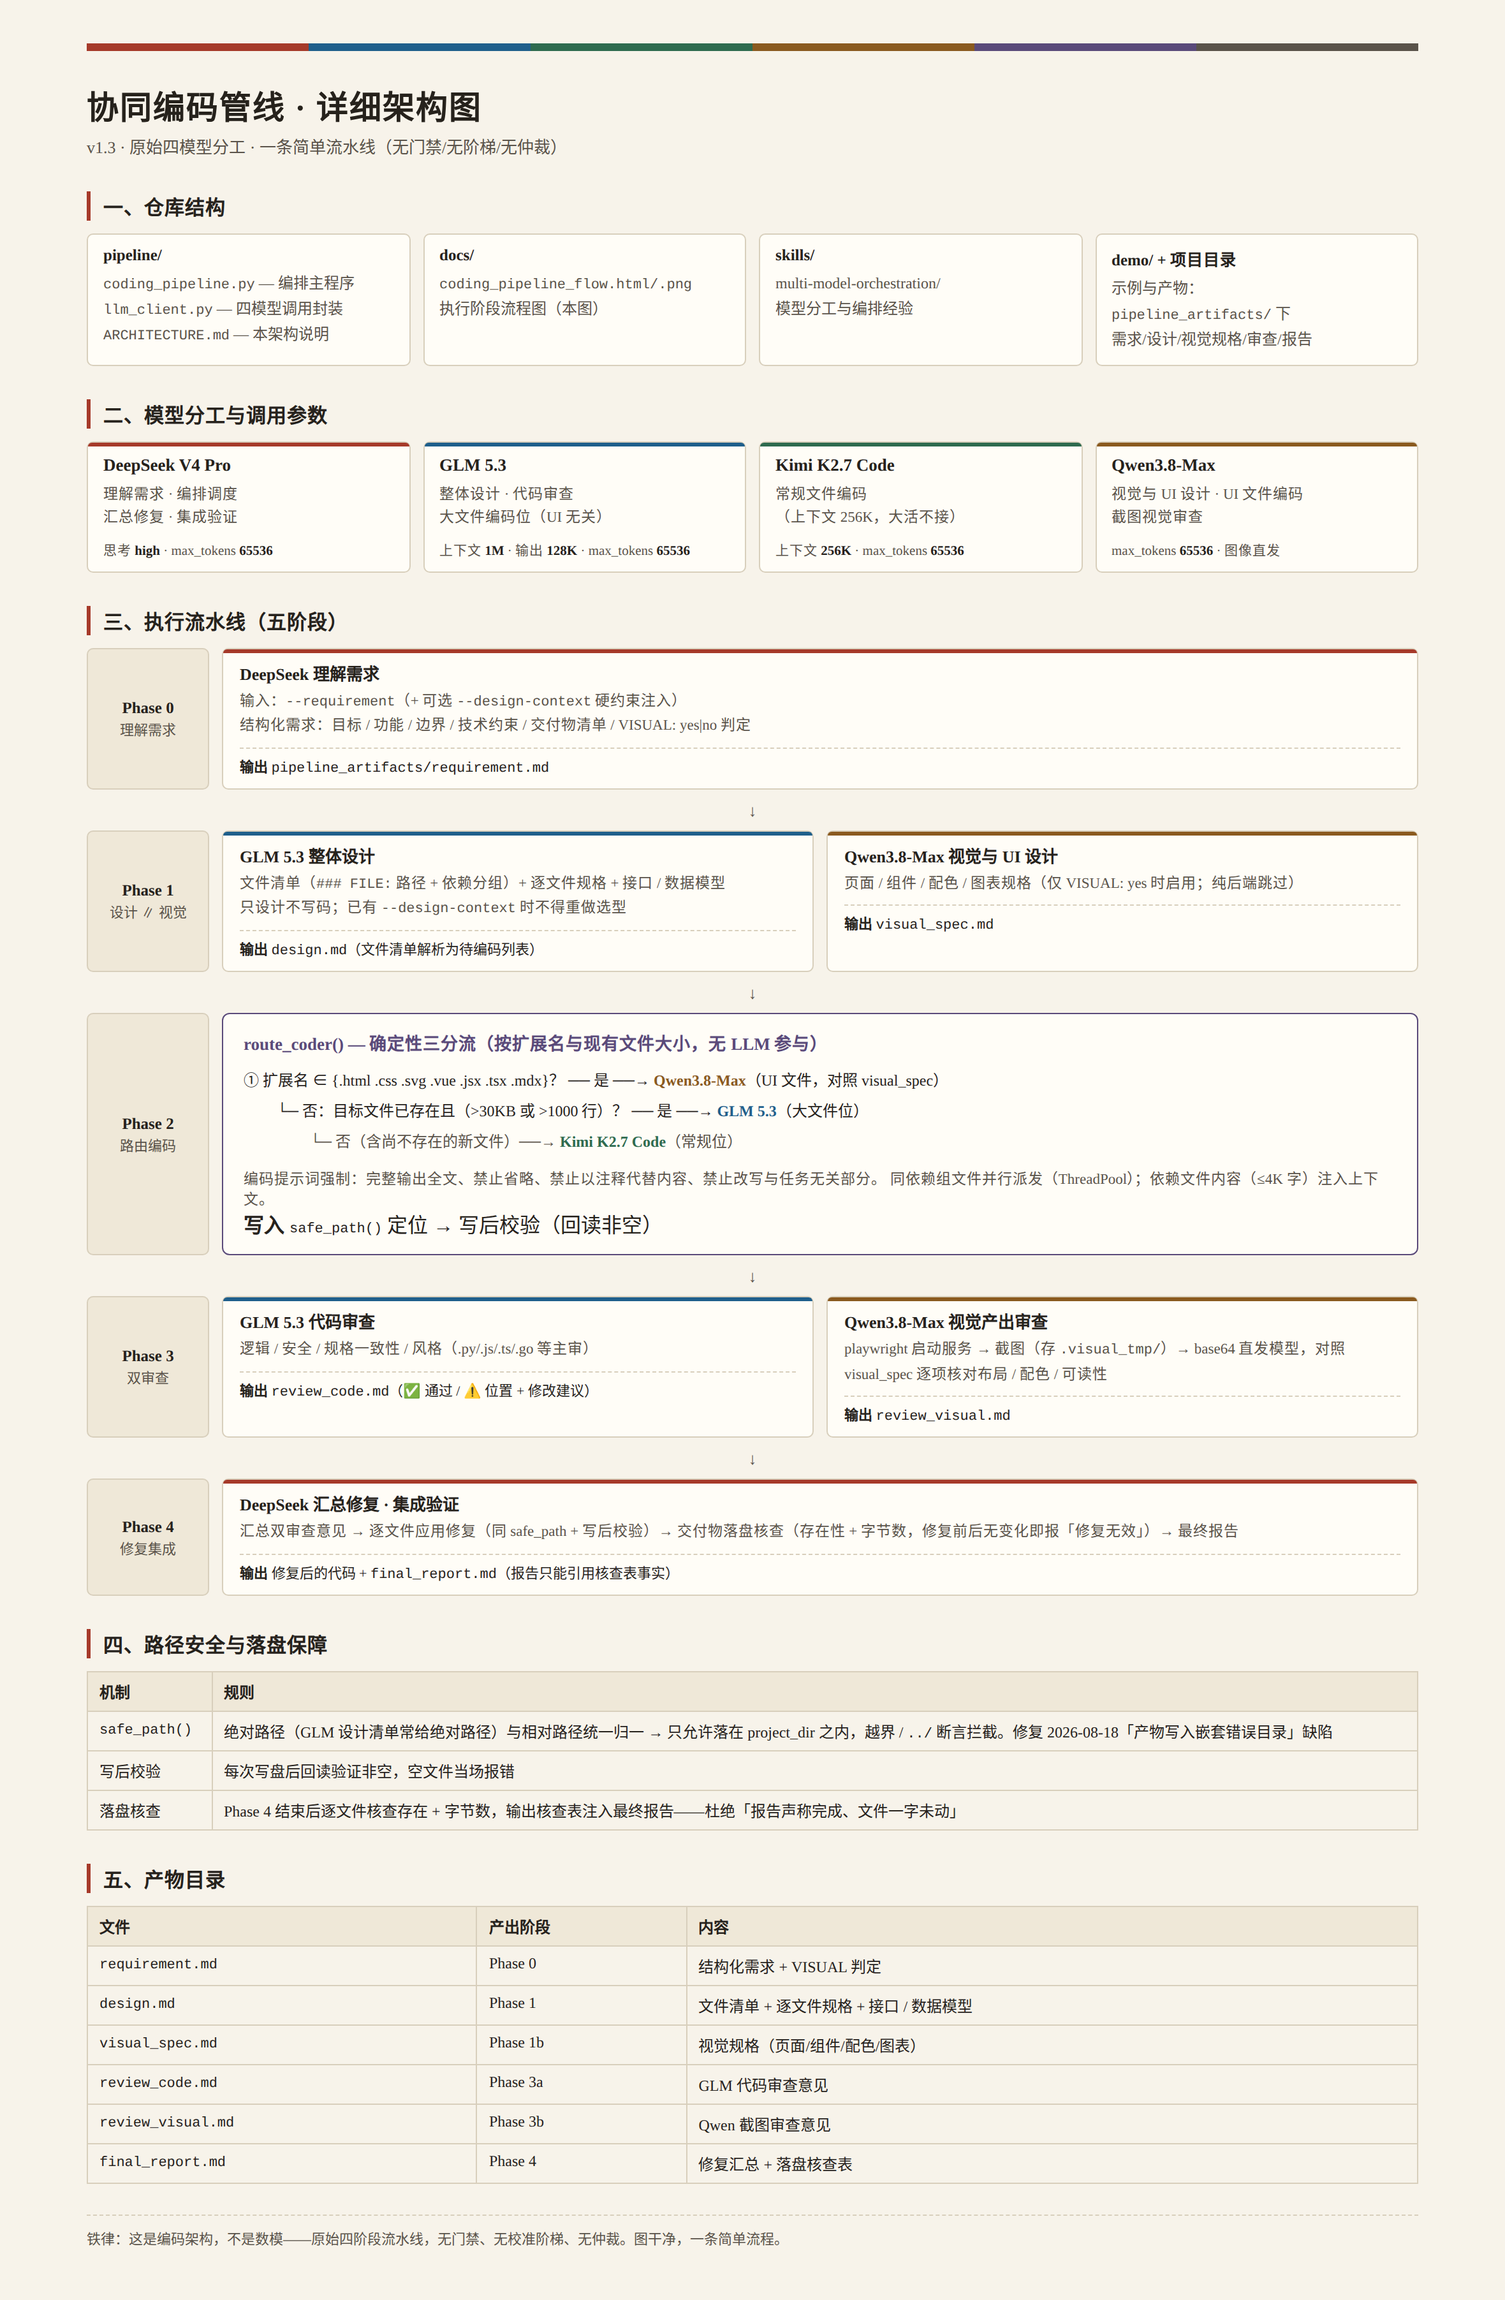
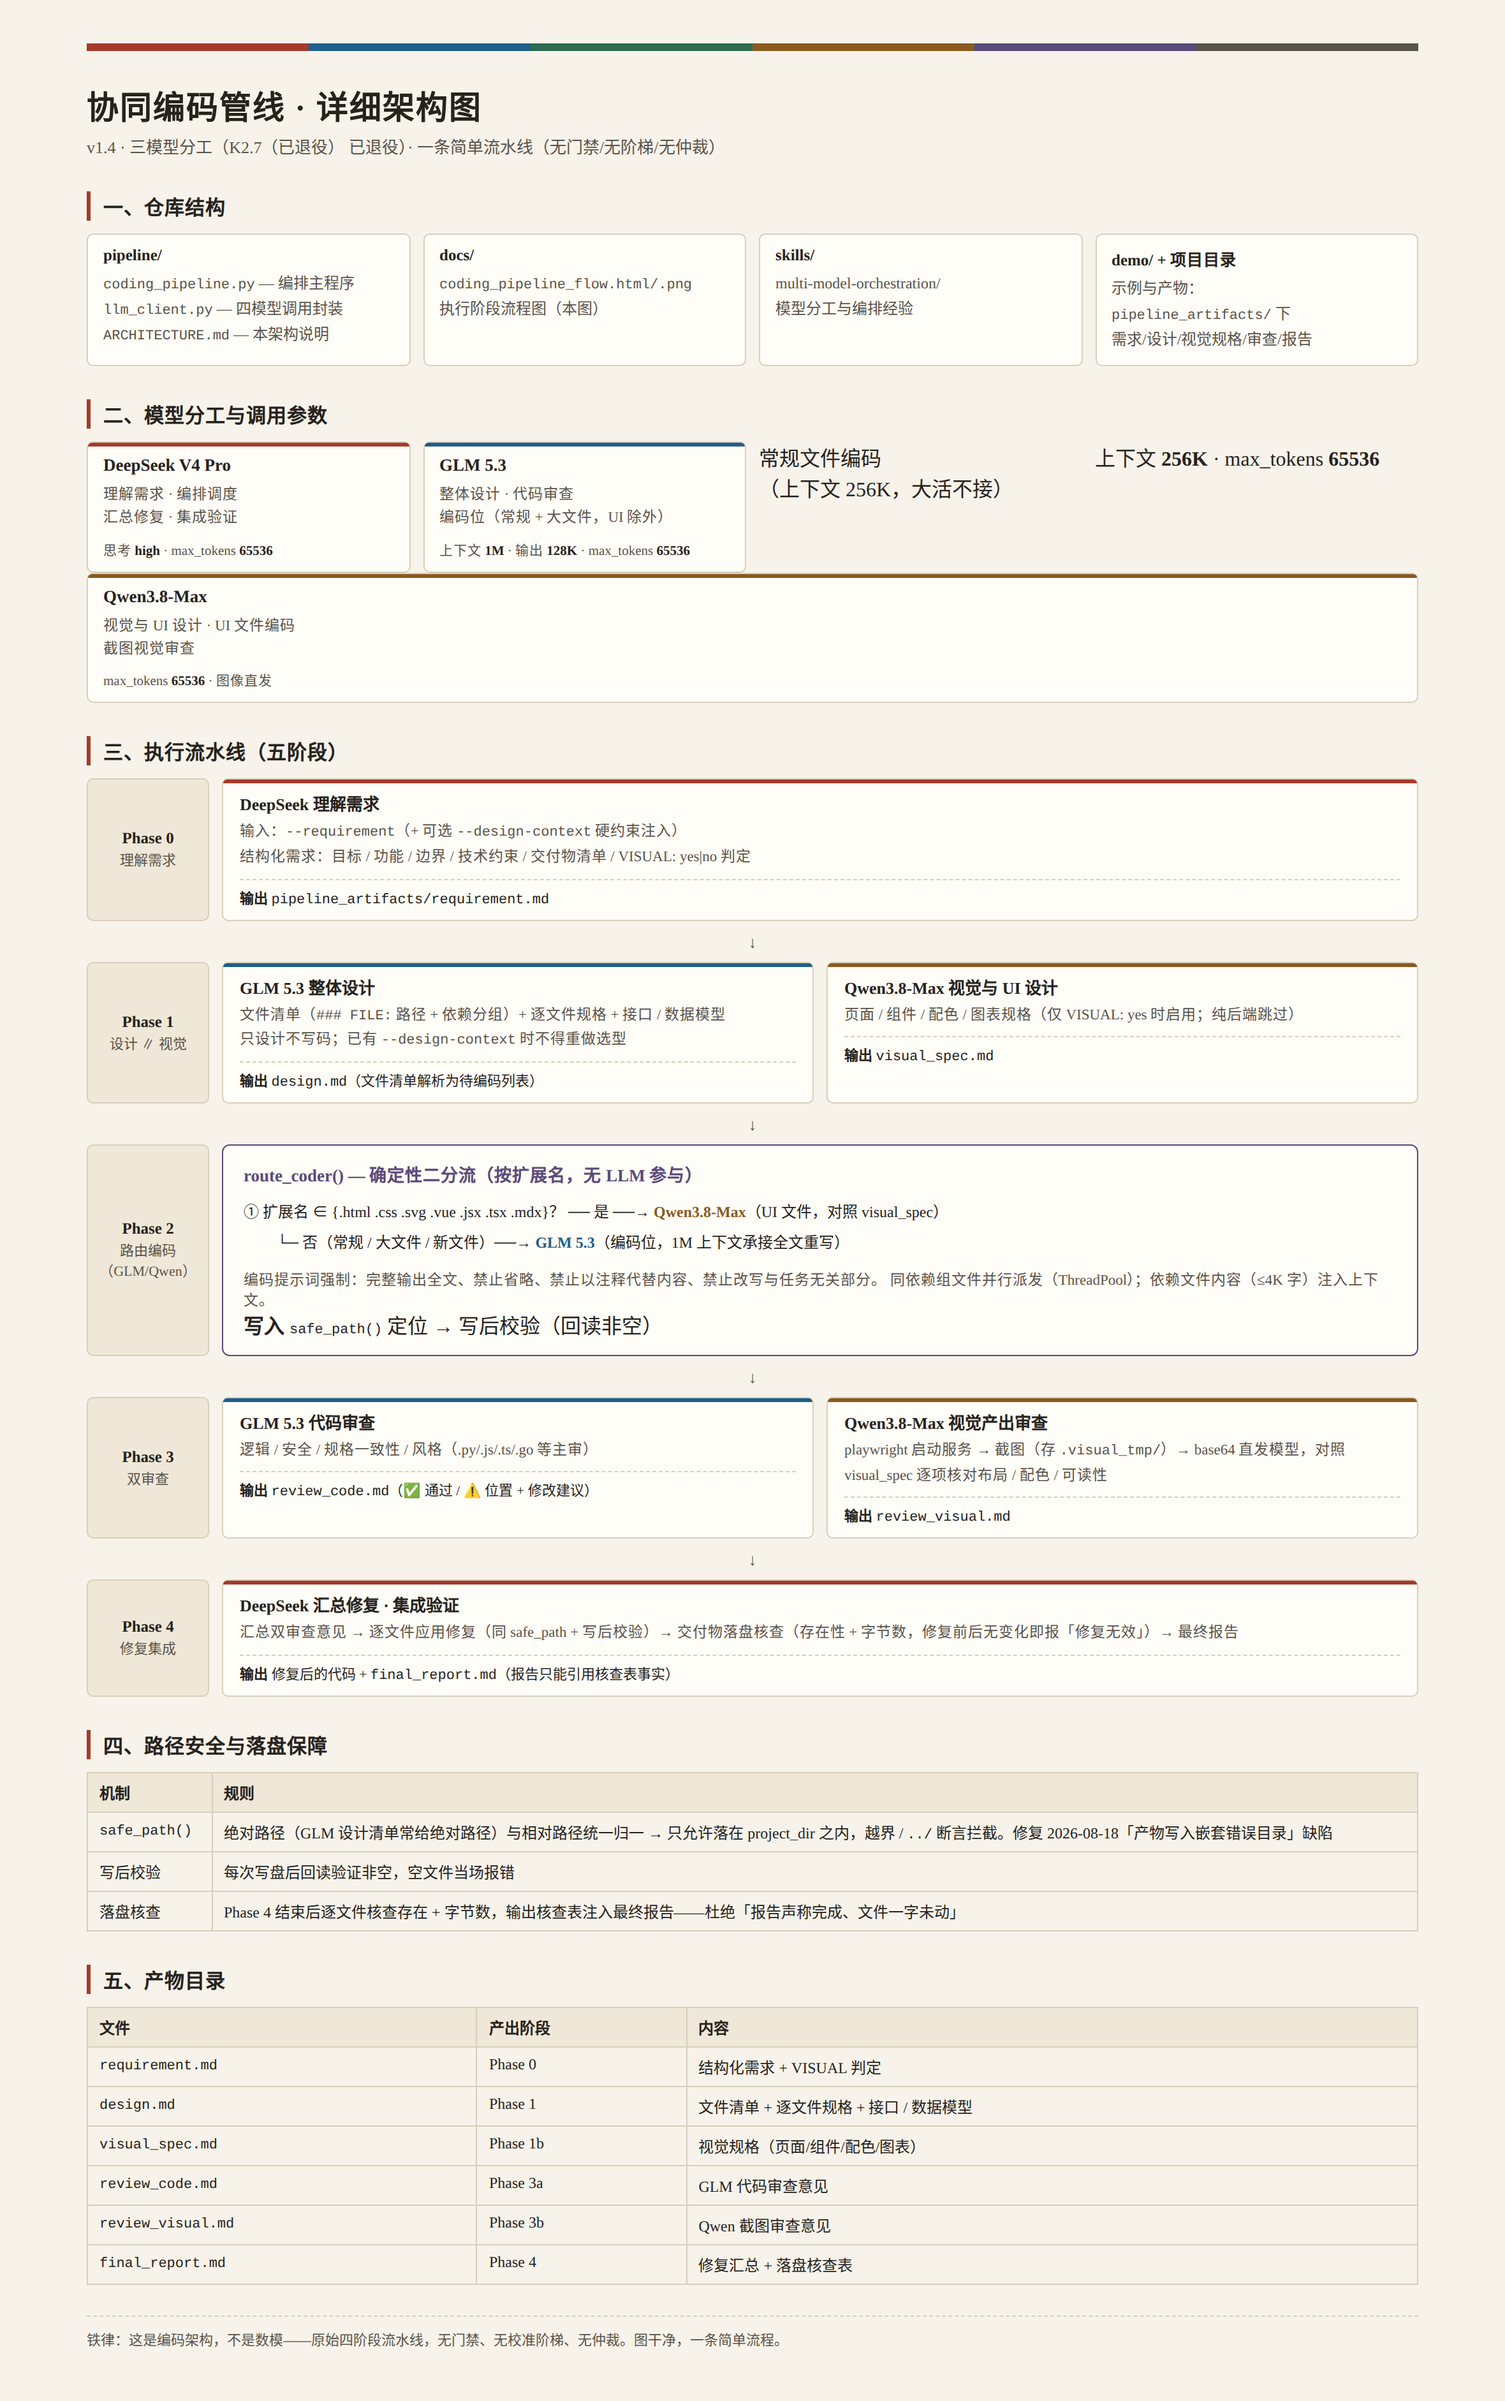
v1.4: K2.7 退役——编码位全归 GLM 5.3（UI 文件仍 Qwen），路由简化为二分流

diff --git a/docs/coding_pipeline_flow.html b/docs/coding_pipeline_flow.html
@@ -3,7 +3,7 @@
 <head>
 <meta charset="UTF-8">
 <meta name="viewport" content="width=device-width, initial-scale=1.0">
-<title>协同编码管线 · 详细架构图（v1.3）</title>
+<title>协同编码管线 · 详细架构图（v1.4）</title>
 <style>
 :root {
   --paper: #f7f3ea; --paper2: #efe8d8; --ink: #26221c; --ink-soft: #5a534a;
@@ -85,7 +85,7 @@ td .mono, .mono { font-size: 11px; }
 <div class="topbar"><span></span><span></span><span></span><span></span><span></span><span></span></div>
 
 <h1>协同编码管线 · 详细架构图</h1>
-<div class="sub">v1.3 · 原始四模型分工 · 一条简单流水线（无门禁/无阶梯/无仲裁）</div>
+<div class="sub">v1.4 · 三模型分工（K2.7（已退役） 已退役）· 一条简单流水线（无门禁/无阶梯/无仲裁）</div>
 
 <h2>一、仓库结构</h2>
 <div class="repo">
@@ -114,11 +114,9 @@ td .mono, .mono { font-size: 11px; }
   </div>
   <div class="model glm">
     <div class="mn">GLM 5.3</div>
-    <div class="mr">整体设计 · 代码审查<br>大文件编码位（UI 无关）</div>
+    <div class="mr">整体设计 · 代码审查<br>编码位（常规 + 大文件，UI 除外）</div>
     <div class="mp">上下文 <b>1M</b> · 输出 <b>128K</b> · max_tokens <b>65536</b></div>
   </div>
-  <div class="model kimi">
-    <div class="mn">Kimi K2.7 Code</div>
     <div class="mr">常规文件编码<br>（上下文 256K，大活不接）</div>
     <div class="mp">上下文 <b>256K</b> · max_tokens <b>65536</b></div>
   </div>
@@ -162,13 +160,12 @@ td .mono, .mono { font-size: 11px; }
 <div class="arrow">↓</div>
 
 <div class="phase">
-  <div class="pstage"><b>Phase 2</b>路由编码</div>
+  <div class="pstage"><b>Phase 2</b>路由编码（GLM/Qwen）</div>
   <div class="routewrap">
-    <div class="rt">route_coder() — 确定性三分流（按扩展名与现有文件大小，无 LLM 参与）</div>
+    <div class="rt">route_coder() — 确定性二分流（按扩展名，无 LLM 参与）</div>
     <div class="tree">
       <div>① 扩展名 ∈ {.html .css .svg .vue .jsx .tsx .mdx}？ ── 是 ──→ <b class="qwen">Qwen3.8-Max</b>（UI 文件，对照 visual_spec）</div>
-      <div class="lv">└─ 否：目标文件已存在且（&gt;30KB 或 &gt;1000 行）？ ── 是 ──→ <b class="glm">GLM 5.3</b>（大文件位）</div>
-      <div class="lv2">└─ 否（含尚不存在的新文件）──→ <b class="kimi">Kimi K2.7 Code</b>（常规位）</div>
+      <div class="lv">└─ 否（常规 / 大文件 / 新文件）──→ <b class="glm">GLM 5.3</b>（编码位，1M 上下文承接全文重写）</div>
     </div>
     <div class="nd" style="margin-top:8px;font-size:11.5px;color:var(--ink-soft)">
       编码提示词强制：完整输出全文、禁止省略、禁止以注释代替内容、禁止改写与任务无关部分。

diff --git a/pipeline/coding_pipeline.py b/pipeline/coding_pipeline.py
@@ -4,7 +4,7 @@
 
     DeepSeek V4 Pro  理解需求 · 编排 · 汇总修复 · 集成验证
     GLM 5.3          设计整体情况（架构分析）+ 代码审查
-    Kimi K2.7 Code   编写具体代码（逐文件）
+    GLM 5.3          编写具体代码（逐文件，UI 文件由 Qwen 编写）
     Qwen3.8-Max      视觉与 UI 设计 + 视觉产出审查
 
 用法：
@@ -13,7 +13,7 @@
 
 产物：
     <project>/pipeline_artifacts/  requirements / design / visual_spec / review_code / review_visual / final_report
-    <project>/<GLM 设计的文件路径>   Kimi 编写的代码（Phase 4 修复后为终版）
+    <project>/<GLM 设计的文件路径>   GLM 编写的代码（Phase 4 修复后为终版）
 """
 import argparse, json, os, re, sys, time, base64
 from concurrent.futures import ThreadPoolExecutor, as_completed
@@ -172,30 +172,16 @@ def phase1b_visual(project_dir, requirements, design, files):
 
 
 # ---------------------------------------------------------------- Phase 2
-# v1.3 文件路由（2026-08-19，博士拍板）：常规 → Kimi；UI 相关 → Qwen；大文件非UI → GLM
-LARGE_SIZE_BYTES = 30 * 1024     # 大文件阈值：>30KB
-LARGE_LINES = 1000               # 或 >1000 行
+# v1.4 文件路由（2026-08-19，博士拍板）：UI 文件 → Qwen；其余全部 → GLM 5.3（K2.7 退役）
 UI_EXTS = ('.html', '.htm', '.css', '.svg', '.vue', '.jsx', '.tsx', '.mdx')
 
 
 def route_coder(project_dir, f):
     # 确定性路由：返回 (provider, 显示名)
     path = f['path'].lower()
-    is_ui = path.endswith(UI_EXTS)
-    full = safe_path(project_dir, f['path'])
-    is_large = False
-    if os.path.exists(full):
-        try:
-            size = os.path.getsize(full)
-            lines = read_text(full).count('\n')
-            is_large = size > LARGE_SIZE_BYTES or lines > LARGE_LINES
-        except OSError:
-            pass
-    if is_ui:
+    if path.endswith(UI_EXTS):
         return 'qwen', 'Qwen3.8-Max（视觉位）'
-    if is_large:
-        return 'glm', 'GLM 5.3（大文件位）'
-    return 'kimi', 'Kimi K2.7 Code'
+    return 'glm', 'GLM 5.3'
 
 
 def _write_one(project_dir, f, files_done):
@@ -225,7 +211,7 @@ def _write_one(project_dir, f, files_done):
 
 
 def phase2_code(project_dir, files):
-    banner(f'Phase 2/4 · 路由编码（{len(files)} 个文件）· Kimi 常规 / GLM 大文件 / Qwen UI')
+    banner(f'Phase 2/4 · 路由编码（{len(files)} 个文件）· GLM 5.3 常规+大文件 / Qwen UI')
     written = {}
     i = 0
     while i < len(files):
@@ -412,7 +398,7 @@ def phase4_integrate(project_dir, files, review_code, review_visual, requirement
 
 # ---------------------------------------------------------------- main
 def main():
-    ap = argparse.ArgumentParser(description='协同编码管线（DS 编排 / GLM 设计+审查 / Kimi 编码 / Qwen 视觉）')
+    ap = argparse.ArgumentParser(description='协同编码管线（DS 编排 / GLM 设计+编码+审查 / Qwen 视觉）')
     ap.add_argument('--project-dir', required=True, help='项目目录（代码与产物都写入这里）')
     ap.add_argument('--requirement', required=True, help='需求文本，或以 @ 开头的文件路径')
     ap.add_argument('--design-context', help='已确认的设计架构文档（@文件路径）——技术选型已定，GLM 不再重做选型')
@@ -434,7 +420,7 @@ def main():
 
     print('=' * 62)
     print(f'协同编码管线 · 项目 {project_dir}')
-    print('DeepSeek 理解需求 → GLM 整体设计 ∥ Qwen 视觉UI → Kimi coder 编码 → 并行审查 → DeepSeek 集成')
+    print('DeepSeek 理解需求 → GLM 整体设计 ∥ Qwen 视觉UI → GLM coder 编码 → 并行审查 → DeepSeek 集成')
     print('=' * 62)
 
     requirements, has_visual = phase0_requirements(project_dir, requirement)

diff --git a/pipeline/ARCHITECTURE.md b/pipeline/ARCHITECTURE.md
@@ -68,7 +68,7 @@ P5 执行（build）           调用 coding_pipeline.py，设计文档作为硬
            └──────────────────┬────────────────┘
                               ▼
 ┌─ Phase 2 ────────────────────────────────────────────────┐
-│ Kimi K2.7 Code 逐文件编写代码（依赖分组并行）              │
+│ GLM 5.3 逐文件编写代码（依赖分组并行，UI 文件由 Qwen）    │
 └──────────────────────────┬───────────────────────────────┘
                            ▼
         ┌──────────────────┴──────────────────┐
@@ -182,9 +182,9 @@ GLM 被要求输出严格格式，管线用正则解析：
 
 执行阶段的 GLM 设计 prompt 会注入已确认的 `design_doc.md`（截断 12K），并声明「技术选型与架构方向已由用户确认，必须严格遵守，不得更改或引入新选型」——规划阶段的用户决策对执行阶段有强制约束力。
 
-### 4.6 Kimi 逐文件编码的上下文控制
+### 4.6 编码位的上下文控制
 
-每个文件只注入三样：①该文件的规格；②`依赖:` 声明的文件内容（各截 4000 字符）；③输出约束（只输出完整代码，围栏残留被 `strip_fences` 剥掉）。这是原始架构「Do NOT give Kimi the entire spec at once」原则的实现。
+每个文件只注入三样：①该文件的规格；②`依赖:` 声明的文件内容（各截 4000 字符）；③输出约束（只输出完整代码，围栏残留被 `strip_fences` 剥掉）。这是原始架构「Do NOT give the coder the entire spec at once」原则的实现（v1.4 起 coder 为 GLM 5.3）。
 
 ### 4.7 审查 → 修复闭环（执行阶段 Phase 4）
 
@@ -216,7 +216,7 @@ KIMI_BASE_URL（可选，默认 https://api.moonshot.cn/v1）
 | 规划阶段按需推进 | 调研/选型/设计每步产出后**停下来等用户**，不确认不烧下一步的钱 |
 | GitHub 搜索零 LLM 成本 | 搜索用公开 API，DeepSeek 只做关键词提取与报告汇总 |
 | 视觉环节条件触发 | `VISUAL: no` 时省掉 Phase 1b/3b 全部视觉调用 |
-| 逐文件最小上下文 | Kimi 编码只注入规格 + 依赖摘要 |
+| 逐文件最小上下文 | 编码只注入规格 + 依赖摘要 |
 | 单轮修复 | 修复循环最多一轮 |
 | Solo 边界 | 小任务不启动管线 |
 

diff --git a/README.md b/README.md
@@ -20,7 +20,7 @@
 执行阶段四模型分工：
 DeepSeek V4 Pro   理解需求 · 编排调度 · 汇总修复 · 集成验证
 GLM 5.3           设计整体架构（文件清单+逐文件规格）· 代码审查
-Kimi K2.7 Code    编写具体代码（逐文件）
+GLM 5.3          编写具体代码（逐文件，UI 文件由 Qwen 编写）
 Qwen3.8-Max       视觉与 UI 设计 · 视觉产出审查（截图级）
 ```
 
@@ -40,7 +40,7 @@ Qwen3.8-Max       视觉与 UI 设计 · 视觉产出审查（截图级）
 | `planning.py design` | 按你的选型出详细设计文档 | `planning/design_doc.md` → **你确认** |
 | `planning.py build` | 调执行阶段开始编码 | 项目代码 |
 
-**执行阶段**（`pipeline/coding_pipeline.py`，设计文档作为硬约束传入）：GLM 逐文件设计 ∥ Qwen 视觉规格 → **路由编码**（Kimi 常规 / GLM 大文件非UI / Qwen UI 文件，阈值 >30KB 或 >1000 行）→ GLM∥Qwen 并行审查 → DeepSeek 修复集成。
+**执行阶段**（`pipeline/coding_pipeline.py`，设计文档作为硬约束传入）：GLM 逐文件设计 ∥ Qwen 视觉规格 → **路由编码**（GLM 5.3 常规+大文件 / Qwen UI 文件；K2.7 已退役）→ GLM∥Qwen 并行审查 → DeepSeek 修复集成。
 
 ## 快速开始
 
@@ -84,6 +84,7 @@ docs/
 | tag | 里程碑 |
 |---|---|
 | `v1.0.0` | 多模型编排初版（DS 编排 / GLM 设计评审 / Kimi 编码分工） |
+| `v1.4.0` | K2.7 退役：编码位全归 GLM 5.3（UI 文件仍 Qwen） |
 | `v1.3.0` | 大文件路由（Kimi 常规 / GLM 大文件非UI / Qwen UI）+ 四模型 1M 预算（GLM 5.2→5.3） |
 | `v1.1.0` | 接入 Qwen3.8-Max：长任务编码位（准入三测通过） |
 | `v1.2.0` | 视觉/UI 全迁 Qwen3.8-Max（Kimi K3 视觉位退役，成本指令） |
